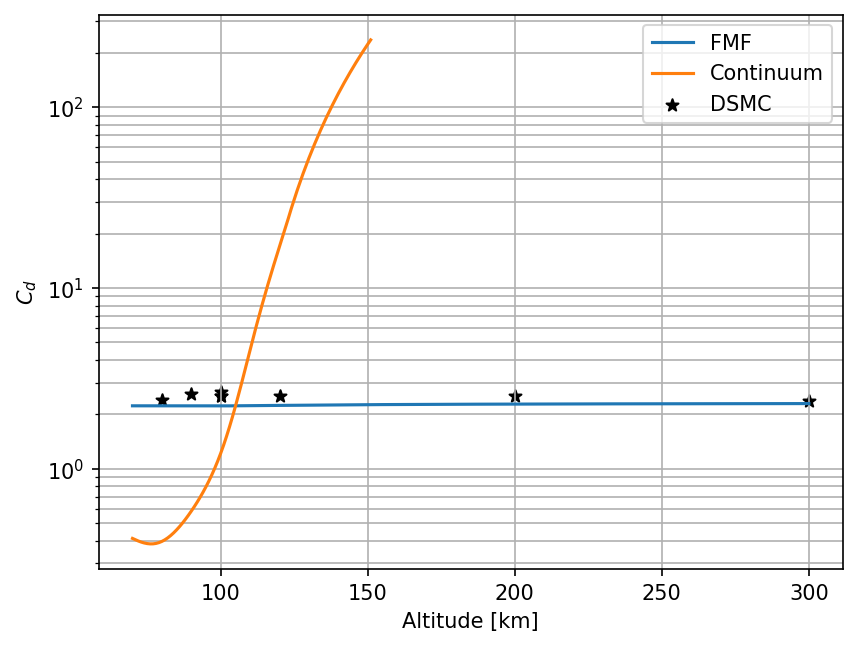
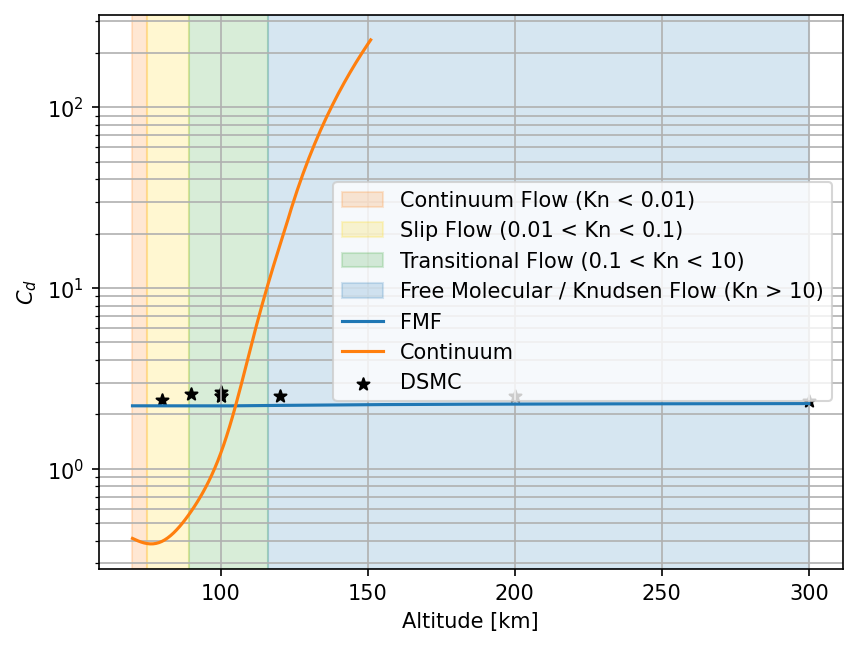
hmmm

diff --git a/scripts/Ethan_drag_theory.py b/scripts/Ethan_drag_theory.py
@@ -31,6 +31,19 @@ NA = 6.02214076e23           # Avogadro's number [1/mol]
 kB = 1.380649e-23            # Boltzmann constant [J/K]
 R_E = 6371.0                 # Earth radius [km]
 MU_E = 3.986e5               # Earth gravitational parameter [km^3/s^2]
+D_MOL = 3.7e-10              # effective molecular (collision) diameter [m]
+
+
+# ---------------------------------------------------------------------------
+# Flow-regime definitions (by Knudsen number)
+# ---------------------------------------------------------------------------
+# Each entry: (label, Kn_lower, Kn_upper, shading color)
+FLOW_REGIMES = [
+    ("Continuum Flow (Kn < 0.01)", 0.0, 0.01, "#ff7f0e"),
+    ("Slip Flow (0.01 < Kn < 0.1)", 0.01, 0.1, "#ffd700"),
+    ("Transitional Flow (0.1 < Kn < 10)", 0.1, 10.0, "#2ca02c"),
+    ("Free Molecular / Knudsen Flow (Kn > 10)", 10.0, np.inf, "#1f77b4"),
+]
 
 
 # ---------------------------------------------------------------------------
@@ -79,6 +92,50 @@ def fmf_flat_plate(v, rho_row, MW, T_atm, xsec, AoA_deg, sigma, T_w, kB, NA):
     rho_mass = rho_row[5]  # total mass density [kg/m^3]
     drag = 0.5 * rho_mass * v**2 * xsec * Cd
     return drag
+
+
+def knudsen_number(rho, d, L):
+    """
+    Knudsen number Kn = lambda / L for each altitude.
+
+    The hard-sphere mean free path lambda = 1 / (sqrt(2) * pi * d^2 * n_tot)
+    uses the total number density summed over all atmospheric species.
+
+    Parameters
+    ----------
+    rho : (N, 9) array with the MATLAB column ordering
+          [He, O, N2, O2, Ar, total_mass, H, N, anom-O]; columns other than
+          index 5 are number densities [1/m^3].
+    d   : effective molecular collision diameter [m]
+    L   : characteristic body length [m]
+
+    Returns
+    -------
+    mfp : (N,) mean free path [m]
+    Kn  : (N,) Knudsen number [-]
+    """
+    number_density_cols = [0, 1, 2, 3, 4, 6, 7, 8]  # all columns except mass (5)
+    n_tot = np.sum(rho[:, number_density_cols], axis=1)
+    mfp = 1.0 / (np.sqrt(2.0) * np.pi * d**2 * n_tot)
+    return mfp, mfp / L
+
+
+def shade_flow_regimes(ax, alt_km, Kn, alpha=0.18):
+    """
+    Shade the altitude span of each flow regime (per Knudsen number) on a plot
+    whose x-axis is altitude [km]. Boundaries are found by interpolating the
+    altitude at which Kn crosses each regime threshold (Kn increases
+    monotonically with altitude).
+    """
+    order = np.argsort(Kn)
+    kn_sorted = Kn[order]
+    alt_sorted = alt_km[order]
+    for label, kn_lo, kn_hi, color in FLOW_REGIMES:
+        lo_alt = np.interp(kn_lo, kn_sorted, alt_sorted)
+        hi_alt = np.interp(kn_hi, kn_sorted, alt_sorted)
+        if hi_alt > lo_alt:
+            ax.axvspan(lo_alt, hi_alt, color=color, alpha=alpha,
+                       zorder=0, label=label)
 
 
 def prism_drag(mu_0, T_atm, T0, rho_mass, v, A, L):
@@ -202,17 +259,35 @@ def main():
 
     T_wall = 300.0  # [K]
 
-    # FMF drag: one ram face (xsec = 0.04 m^2, broadside -> AoA=90 deg) +
-    # four lateral faces (xsec = 0.2 m^2 each, edge-on -> AoA=0 deg).
+    # Body geometry: rectangular prism. x is the flow (ram) direction.
+    # Set the three dimensions and every reference area / length is derived.
+    body_L = 1.0   # length along flow, x [m]
+    body_W = 0.2   # width, y [m]
+    body_H = 0.2   # height, z [m]
+
+    A_ref = body_W * body_H     # frontal / ram area (x-normal face) [m^2]
+    A_face_y = body_L * body_H  # area of each y-normal (lateral) face [m^2]
+    A_face_z = body_L * body_W  # area of each z-normal (lateral) face [m^2]
+    L_char = body_W             # characteristic length for Kn / Re [m]
+
+    # Knudsen number vs altitude for this body
+    mfp, Kn = knudsen_number(rho, D_MOL, L_char)
+
+    # FMF drag: one ram face (broadside -> AoA=90 deg) + the four lateral
+    # faces (edge-on -> AoA=0 deg), all areas derived from body dimensions.
     drag_FMF = np.zeros_like(alt)
     for n in range(len(alt)):
         drag_FMF[n] = (
             fmf_flat_plate(
-                v[n], rho[n, :], MW, T_atm[n], 0.04, 90.0, 0.9, T_wall, kB, NA
+                v[n], rho[n, :], MW, T_atm[n], A_ref, 90.0, 0.9, T_wall, kB, NA
             )
-            + 4.0
+            + 2.0
             * fmf_flat_plate(
-                v[n], rho[n, :], MW, T_atm[n], 0.2, 0.0, 0.9, T_wall, kB, NA
+                v[n], rho[n, :], MW, T_atm[n], A_face_y, 0.0, 0.9, T_wall, kB, NA
+            )
+            + 2.0
+            * fmf_flat_plate(
+                v[n], rho[n, :], MW, T_atm[n], A_face_z, 0.0, 0.9, T_wall, kB, NA
             )
         )
 
@@ -222,17 +297,28 @@ def main():
 
     drag_C = np.zeros_like(alt)
     for n in range(len(alt)):
-        drag_C[n] = prism_drag(mu_0, T_atm[n], T0, rho[n, 5], v[n], 0.04, 0.2) # 0.2x0.2x1 prism with 0.04 m^2 frontal area and 0.2 m length
+        drag_C[n] = prism_drag(mu_0, T_atm[n], T0, rho[n, 5], v[n], A_ref, L_char)
 
     # Cube Cd in continuum regime (reference area = ram face)
     with np.errstate(invalid="ignore", divide="ignore"):
-        Cd_C = drag_C / (0.5 * rho[:, 5] * v**2 * 0.04)
-        Cd_FMF = drag_FMF / (0.5 * rho[:, 5] * v**2 * 0.04)
+        Cd_C = drag_C / (0.5 * rho[:, 5] * v**2 * A_ref)
+        Cd_FMF = drag_FMF / (0.5 * rho[:, 5] * v**2 * A_ref)
+
+    # Report regime boundary altitudes (where Kn crosses each threshold)
+    print(f"Knudsen number (L = {L_char} m): "
+          f"Kn={Kn.min():.3g} at {alt.min()/1e3:.0f} km -> "
+          f"Kn={Kn.max():.3g} at {alt.max()/1e3:.0f} km")
+    for kn_thr in (0.01, 0.1, 10.0):
+        if Kn.min() < kn_thr < Kn.max():
+            alt_cross = np.interp(kn_thr, np.sort(Kn),
+                                  (alt / 1000.0)[np.argsort(Kn)])
+            print(f"  Kn = {kn_thr:>5} at {alt_cross:6.1f} km")
 
     # -----------------------------------------------------------------------
     # Plotting
     # -----------------------------------------------------------------------
     fig1, ax1 = plt.subplots()
+    shade_flow_regimes(ax1, alt / 1000.0, Kn)
     ax1.plot(alt / 1000.0, drag_FMF, label="FMF")
     ax1.plot(alt / 1000.0, drag_C, label="Continuum")
 
@@ -254,8 +340,28 @@ def main():
     ax1.legend()
     fig1.patch.set_facecolor("w")
 
+    # Linear-scale drag, zoomed to 70-100 km
+    fig_lin, ax_lin = plt.subplots()
+    shade_flow_regimes(ax_lin, alt / 1000.0, Kn)
+    ax_lin.plot(alt / 1000.0, drag_FMF, label="FMF")
+    ax_lin.plot(alt / 1000.0, drag_C, label="Continuum")
+    if dsmc_alt.size > 0:
+        ax_lin.scatter(dsmc_alt, dsmc_drag, marker="*", color="k", label="DSMC")
+    ax_lin.set_xlim(70.0, 100.0)
+    zoom = (alt / 1000.0 >= 70.0) & (alt / 1000.0 <= 100.0)
+    finite_drag = np.concatenate([drag_FMF[zoom], drag_C[zoom]])
+    finite_drag = finite_drag[np.isfinite(finite_drag)]
+    if finite_drag.size:
+        ax_lin.set_ylim(0.0, 1.05 * finite_drag.max())
+    ax_lin.set_xlabel("Altitude [km]")
+    ax_lin.set_ylabel("Drag [N]")
+    ax_lin.grid(True, which="both")
+    ax_lin.legend()
+    fig_lin.patch.set_facecolor("w")
+
     fig2, ax2 = plt.subplots()
     alt_km_all = alt / 1000.0
+    shade_flow_regimes(ax2, alt_km_all, Kn)
     ax2.plot(alt_km_all, Cd_FMF, label="FMF")
     ax2.plot(alt_km_all, Cd_C, label="Continuum")
     if dsmc_alt.size > 0:
@@ -272,14 +378,46 @@ def main():
     ax2.legend()
     fig2.patch.set_facecolor("w")
 
+    # Cd vs Knudsen number (regimes shaded directly on the Kn axis)
+    fig3, ax3 = plt.subplots()
+    kn_min, kn_max = Kn.min(), Kn.max()
+    for label, kn_lo, kn_hi, color in FLOW_REGIMES:
+        lo = max(kn_lo, kn_min)
+        hi = min(kn_hi, kn_max)
+        if hi > lo:
+            ax3.axvspan(lo, hi, color=color, alpha=0.18, zorder=0, label=label)
+    ax3.plot(Kn, Cd_FMF, label="FMF")
+    ax3.plot(Kn, Cd_C, label="Continuum")
+    if dsmc_alt.size > 0:
+        mask = np.isfinite(dsmc_cd)
+        if mask.any():
+            order = np.argsort(alt_km_all)
+            dsmc_kn = np.interp(dsmc_alt[mask], alt_km_all[order], Kn[order])
+            ax3.scatter(dsmc_kn, dsmc_cd[mask],
+                        marker="*", color="k", label="DSMC")
+    ax3.set_xlabel("Knudsen number")
+    ax3.set_ylabel(r"$C_d$")
+    ax3.set_xscale("log")
+    ax3.set_yscale("log")
+    ax3.set_xlim(kn_min, kn_max)
+    ax3.grid(True, which="both")
+    ax3.legend()
+    fig3.patch.set_facecolor("w")
+
     out_dir = os.path.join(os.path.dirname(script_dir), "outputs")
     os.makedirs(out_dir, exist_ok=True)
     drag_path = os.path.join(out_dir, "Ethan_drag_theory_drag.png")
+    drag_log_path = os.path.join(out_dir, "Ethan_drag_theory_drag_log.png")
     cd_path = os.path.join(out_dir, "Ethan_drag_theory_Cd.png")
-    fig1.savefig(drag_path, dpi=150, bbox_inches="tight")
+    cd_kn_path = os.path.join(out_dir, "Ethan_drag_theory_Cd_vs_Kn.png")
+    fig_lin.savefig(drag_path, dpi=150, bbox_inches="tight")
+    fig1.savefig(drag_log_path, dpi=150, bbox_inches="tight")
     fig2.savefig(cd_path, dpi=150, bbox_inches="tight")
+    fig3.savefig(cd_kn_path, dpi=150, bbox_inches="tight")
     print(f"Saved {drag_path}")
+    print(f"Saved {drag_log_path}")
     print(f"Saved {cd_path}")
+    print(f"Saved {cd_kn_path}")
 
     if os.environ.get("DISPLAY"):
         plt.show()

diff --git a/README.md b/README.md
@@ -959,6 +959,9 @@ python tools/log_run.py
 <!-- AMPT_BOX_LOG_END -->
 
 <div align="center">
-  <img src="outputs/Ethan_drag_theory_drag.png" width="500"><br>
+  <img src="outputs/Ethan_drag_theory_drag_log.png" width="500"><br>
   <sub>DSMC results overlaid on FMF and continuum theoretical drag predictions (from <code>scripts/Ethan_drag_theory.py</code>).</sub>
 </div>
+
+
+Clift sphere correlation - Stokes $24/Re$ term; incompressible, low-speed drag law? Not sure if applies to hypersonic, generally Cd ~ 2? Maybe sim is correct mirroring FMF for 0.2 characteristic length, should try lower alt or bigger box to see drag dip? Thankfully only need << 1000 timestep for drag converg.. can se collision num in sparta output Ncoll.